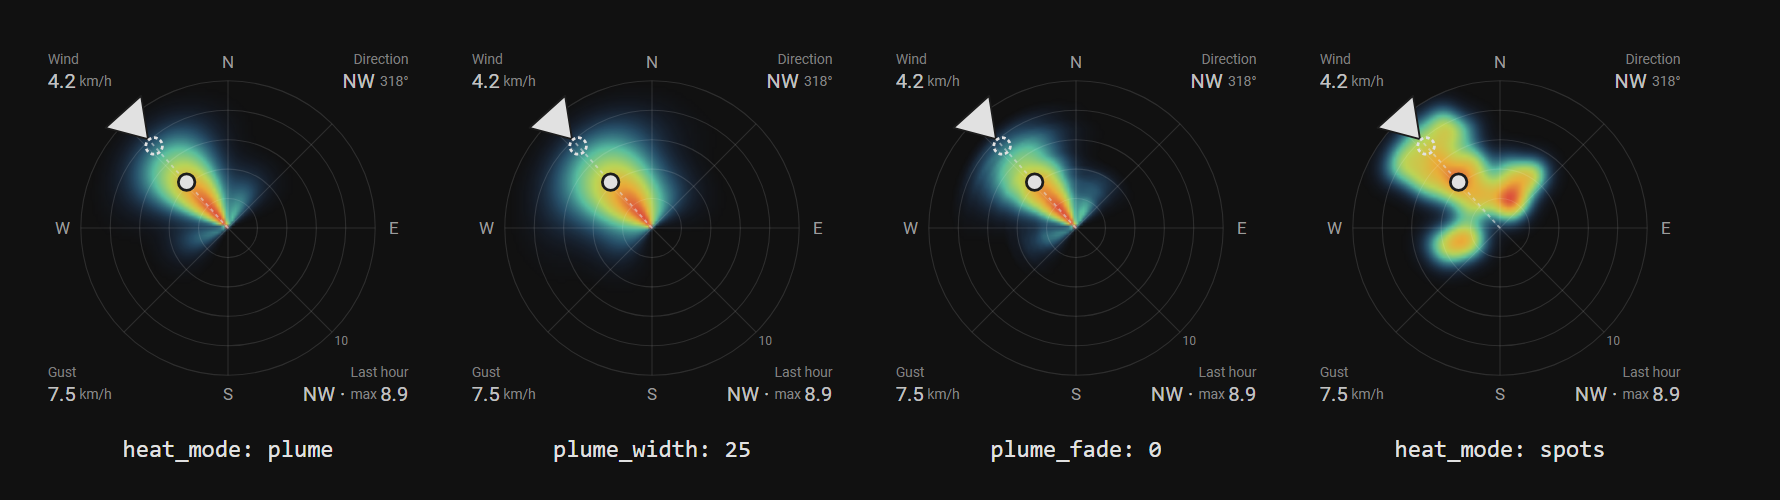
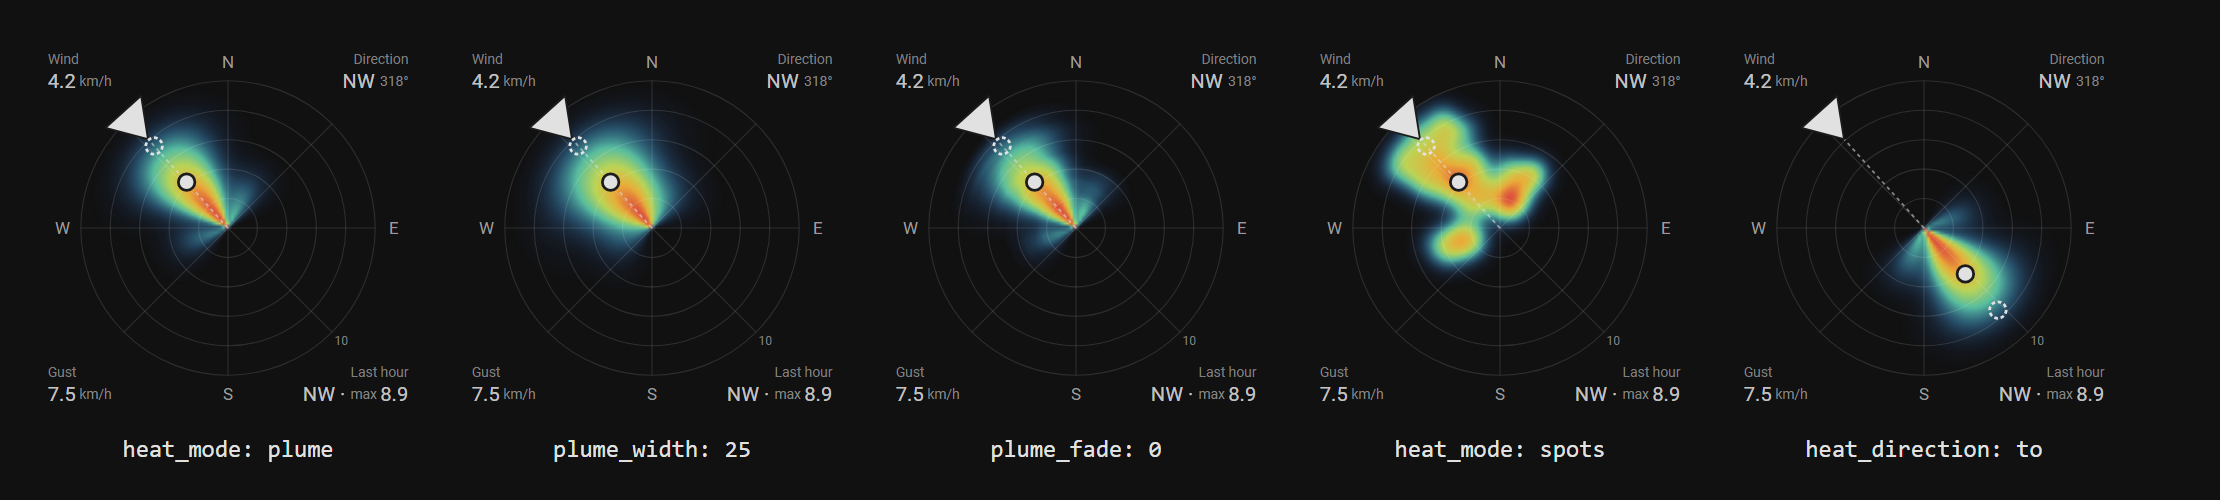
feat: v0.8.0 — heat_direction: to draws the heat map downwind
New option heat_direction (from | to, default from). With "to" the heat
map is rotated 180° so plumes point where the wind blows, as if blown by
it; the speed dot and gust ring move with it and the pointer stays on
the "from" side. In the visual editor and the full YAML of new cards.
README gallery shows it.

diff --git a/pt2vhf-wind-rose-card.js b/pt2vhf-wind-rose-card.js
@@ -4,7 +4,7 @@
  * comes FROM, distance from the centre = speed, colour = how much time it blew there.
  * https://github.com/alexpmr/pt2vhf-wind-rose
  */
-const VERSION = '0.7.1';
+const VERSION = '0.8.0';
 const TAG = 'pt2vhf-wind-rose-card';
 
 const STR = {
@@ -279,7 +279,7 @@ export function pointerSvg(style, dir, R, { guide = true } = {}) {
 const LABELS = {
   entity: 'Wind speed', direction_entity: 'Wind direction (degrees)', gust_entity: 'Gust', rain_entity: 'Rain',
   name: 'Name', window: 'Heat-map window', direction_offset: 'Rotate rose (display only)', max_speed: 'Max speed (0 = auto)',
-  heat_mode: 'Heat-map style', plume_width: 'Plume thickness', plume_fade: 'Plume tip fade', smooth: 'Spot softness', pointer: 'Pointer style', pointer_color: 'Pointer colour (CSS)',
+  heat_mode: 'Heat-map style', heat_direction: 'Heat-map points', plume_width: 'Plume thickness', plume_fade: 'Plume tip fade', smooth: 'Spot softness', pointer: 'Pointer style', pointer_color: 'Pointer colour (CSS)',
   show_guide: 'Arrow guide line', show_speed: 'Current speed dot', show_gust: 'Gust ring', show_rim: 'Outer circle', show_rings: 'Speed rings', show_spokes: 'Spokes', show_scale: 'Scale label', rings: 'Ring count',
   sectors: 'Prevailing bins', calm: 'Calm below (speed)', refresh: 'History refresh', max_width: 'Max size', tap_action: 'Tap action',
 };
@@ -291,6 +291,7 @@ const Base = globalThis.HTMLElement ?? class {};
 export const DEFAULTS = {
   window: '1h',
   heat_mode: 'plume',
+  heat_direction: 'from',
   plume_width: 15,
   plume_fade: 40,
   smooth: 8,
@@ -350,6 +351,15 @@ export class WindRoseCard extends Base {
             { name: 'direction_offset', selector: { number: { min: -180, max: 180, step: 1, mode: 'box', unit_of_measurement: '°' } } },
             { name: 'max_speed', selector: { number: { min: 0, mode: 'box' } } },
             { name: 'heat_mode', selector: { select: { mode: 'dropdown', options: ['plume', 'spots'] } } },
+            {
+              name: 'heat_direction',
+              selector: {
+                select: {
+                  mode: 'dropdown',
+                  options: [{ value: 'from', label: 'from (where it came from)' }, { value: 'to', label: 'to (blown downwind)' }],
+                },
+              },
+            },
             { name: 'plume_width', selector: { number: { min: 2, max: 45, step: 1, mode: 'slider', unit_of_measurement: '°' } } },
             { name: 'plume_fade', selector: { number: { min: 0, max: 80, step: 1, mode: 'slider', unit_of_measurement: '%' } } },
             { name: 'smooth', selector: { number: { min: 2, max: 25, step: 1, mode: 'slider' } } },
@@ -501,10 +511,12 @@ export class WindRoseCard extends Base {
     const rr = (v) => Math.min(R, (Math.max(0, v) / max) * R);
     const dirName = (d) => L.dirs[sectorOf(d, 16)];
 
+    // heat_direction "to": the heat is drawn downwind, as if blown by the wind (rotated 180°).
+    const heatRot = withOffset(off, c.heat_direction === 'to' ? 180 : 0);
     // The grid spans [-1, 1]² of the unit disc, i.e. exactly the rose's bounding square.
     const heat = this._heat
       ? `<image href="${this._heat}" x="${-R}" y="${-R}" width="${2 * R}" height="${2 * R}" preserveAspectRatio="none"${
-        off ? ` transform="rotate(${off})"` : ''}/>` : '';
+        heatRot ? ` transform="rotate(${heatRot})"` : ''}/>` : '';
 
     // Grid is decoration only: ring count/visibility never touches the heat map.
     let grid = c.show_rim === false ? '' : `<circle r="${R}"/>`;
@@ -521,8 +533,10 @@ export class WindRoseCard extends Base {
     let marker = '';
     if (Number.isFinite(dir)) {
       marker = pointerSvg(c.pointer, view(dir), R, { guide: c.show_guide !== false });
-      if (c.show_gust !== false && Number.isFinite(gust)) { const [x, y] = pt(rr(gust), view(dir)); marker += `<circle class="gust" cx="${x}" cy="${y}" r="4.5"/>`; }
-      if (c.show_speed !== false && Number.isFinite(speed)) { const [x, y] = pt(rr(speed), view(dir)); marker += `<circle class="now" cx="${x}" cy="${y}" r="4.5"/>`; }
+      // Speed/gust markers sit on the same side as the heat map (downwind when heat_direction is "to").
+      const markDir = withOffset(view(dir), c.heat_direction === 'to' ? 180 : 0);
+      if (c.show_gust !== false && Number.isFinite(gust)) { const [x, y] = pt(rr(gust), markDir); marker += `<circle class="gust" cx="${x}" cy="${y}" r="4.5"/>`; }
+      if (c.show_speed !== false && Number.isFinite(speed)) { const [x, y] = pt(rr(speed), markDir); marker += `<circle class="now" cx="${x}" cy="${y}" r="4.5"/>`; }
     }
 
     // Numbers live in the four corners, outside the rose, as secondary information.

diff --git a/demo/gallery.html b/demo/gallery.html
@@ -47,6 +47,7 @@
       ['plume_width: 25', { plume_width: 25 }],
       ['plume_fade: 0', { plume_fade: 0 }],
       ['heat_mode: spots', { heat_mode: 'spots' }],
+      ['heat_direction: to', { heat_direction: 'to' }],
     ],
     grid: [
       ['default grid', {}],

diff --git a/README.md b/README.md
@@ -22,7 +22,7 @@ Works in light and dark themes, in English and Portuguese (follows the HA langua
 
 ![Pointer styles: arrow, chevron, dart, needle, compass, vane, none](images/pointers.png)
 
-**Heat map** — plumes grow from the centre out to the speed reached; `plume_width` and `plume_fade` shape them, `spots` is the alternative look.
+**Heat map** — plumes grow from the centre out to the speed reached; `plume_width` and `plume_fade` shape them, `spots` is the alternative look and `heat_direction: to` draws them downwind, as if blown by the wind.
 
 ![Heat map modes: plume, wider plume, sharp tips, spots](images/heat.png)
 
@@ -60,6 +60,7 @@ name: Wind
 # Heat map
 window: 1h                # 15m, 30m, 1h, 2h, 3h, 6h, 12h, 24h
 heat_mode: plume          # plume | spots
+heat_direction: from      # from = toward where the wind came from | to = blown downwind
 plume_width: 15           # plume thickness (degrees)
 plume_fade: 40            # how gradually each plume tip fades (% of radius)
 smooth: 8                 # spot softness (heat_mode: spots)
@@ -115,6 +116,7 @@ A new card added from the card picker starts with this full list (the same optio
 | `calm` | `0.5` | Speeds below this count as calm and are left out of the heat map. |
 | `max_width` | `380` | Maximum size of the rose in px on wide cards. |
 | `heat_mode` | `plume` | `plume`: heat grows from the centre out to the speed reached in each direction. `spots`: a soft spot at each sample. |
+| `heat_direction` | `from` | `from`: the heat points to where the wind came from (meteorological wind rose). `to`: the heat is drawn downwind, as if blown by the wind; the speed dot and gust ring follow it, the pointer stays on the "from" side. |
 | `plume_width` | `15` | Plume thickness in degrees: higher merges nearby directions and hides thin streaks. |
 | `plume_fade` | `40` | How gradually each plume tip fades, in % of the radius: higher removes hard arcs (useful with sensors that report speed in steps); 0 = sharp tip. |
 | `smooth` | `8` | Spot size for `heat_mode: spots` (% of the radius). |
